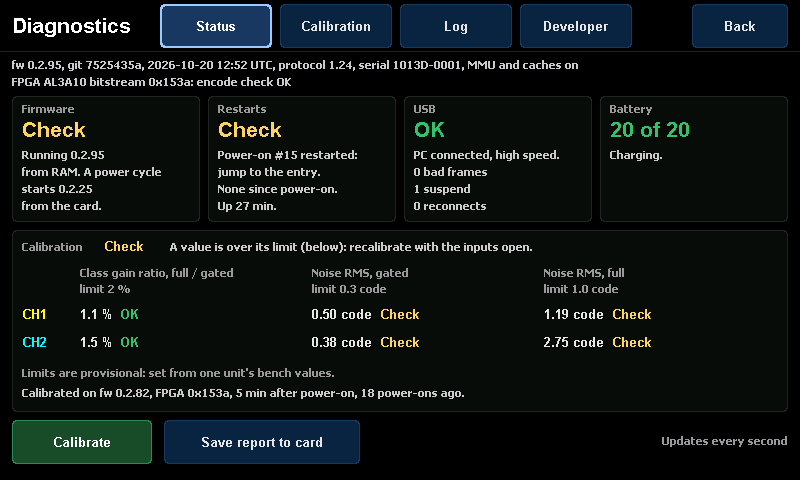
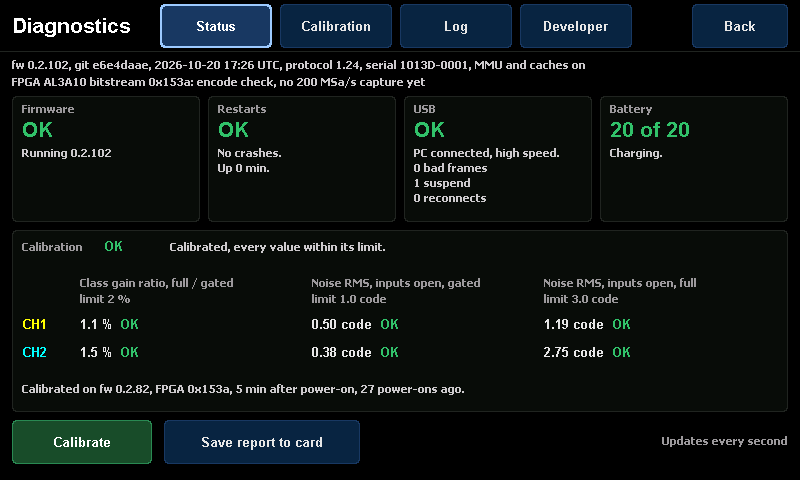
docs: Diagnostics Status screenshot all OK on 0.2.102 from the card; bench log

diff --git a/docs/hardware-status.md b/docs/hardware-status.md
@@ -1390,3 +1390,8 @@ Newest entries at the bottom. Format: date, who, what, result.
   977b321ba27d2affc887ef7f82e602642780fb4c6f69919d021caf8044557416), FEL-loaded, persisted (checksum 0x34784D04 verified;
   the tool refuses to persist an image that is not the running one, so the load came first). Power cycle next, then the
   all-green Status page screenshot.
+- 2026-10-20 19:29: cold boot of fw 0.2.102 from the card (owner), Diagnostics Status page all OK: Firmware "Running
+  0.2.102", Restarts "No crashes. Up 0 min.", USB OK (1 suspend), Battery 20 of 20 charging, Calibration OK "every value
+  within its limit" with the noise rows 0.50 / 0.38 against 1.0 gated and 1.19 / 2.75 against 3.0 full, "27 power-ons ago".
+  Screenshot docs/screenshots/diagnostics.png replaced (the 15:0x one showed the dev-state Checks). 0x153B images pinned
+  in backups/dist-0x153B (padded 1391978c.., the 0x153A padded 77672b5a.. for the pre-write check); flash session pending.
